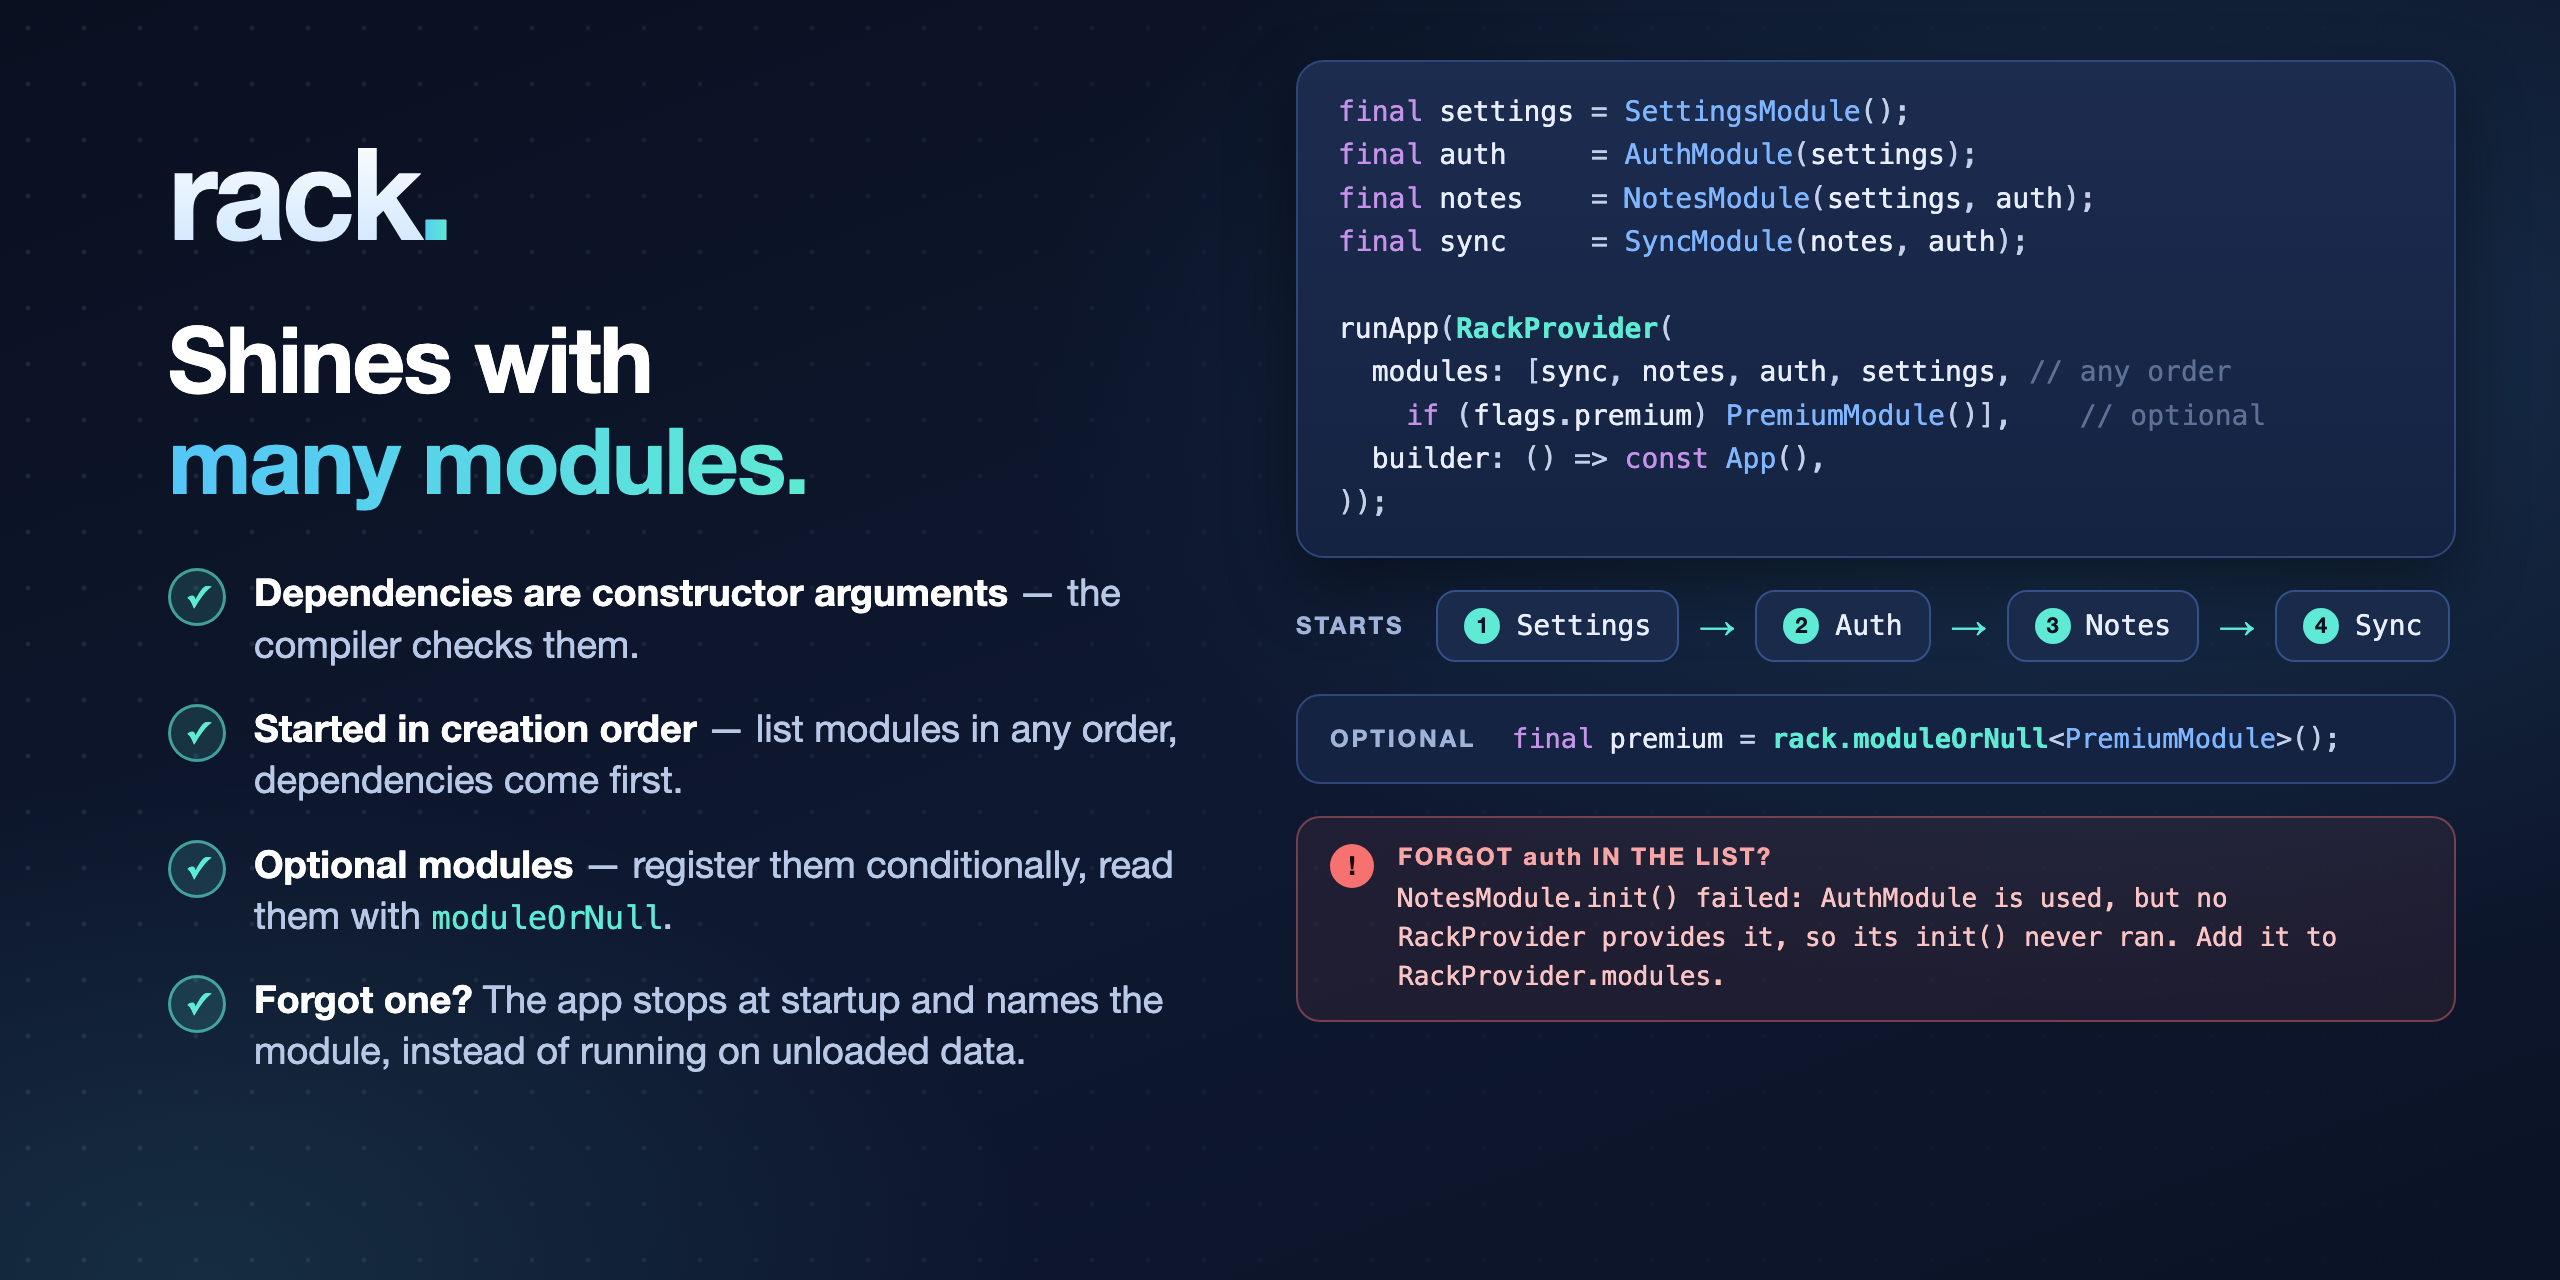
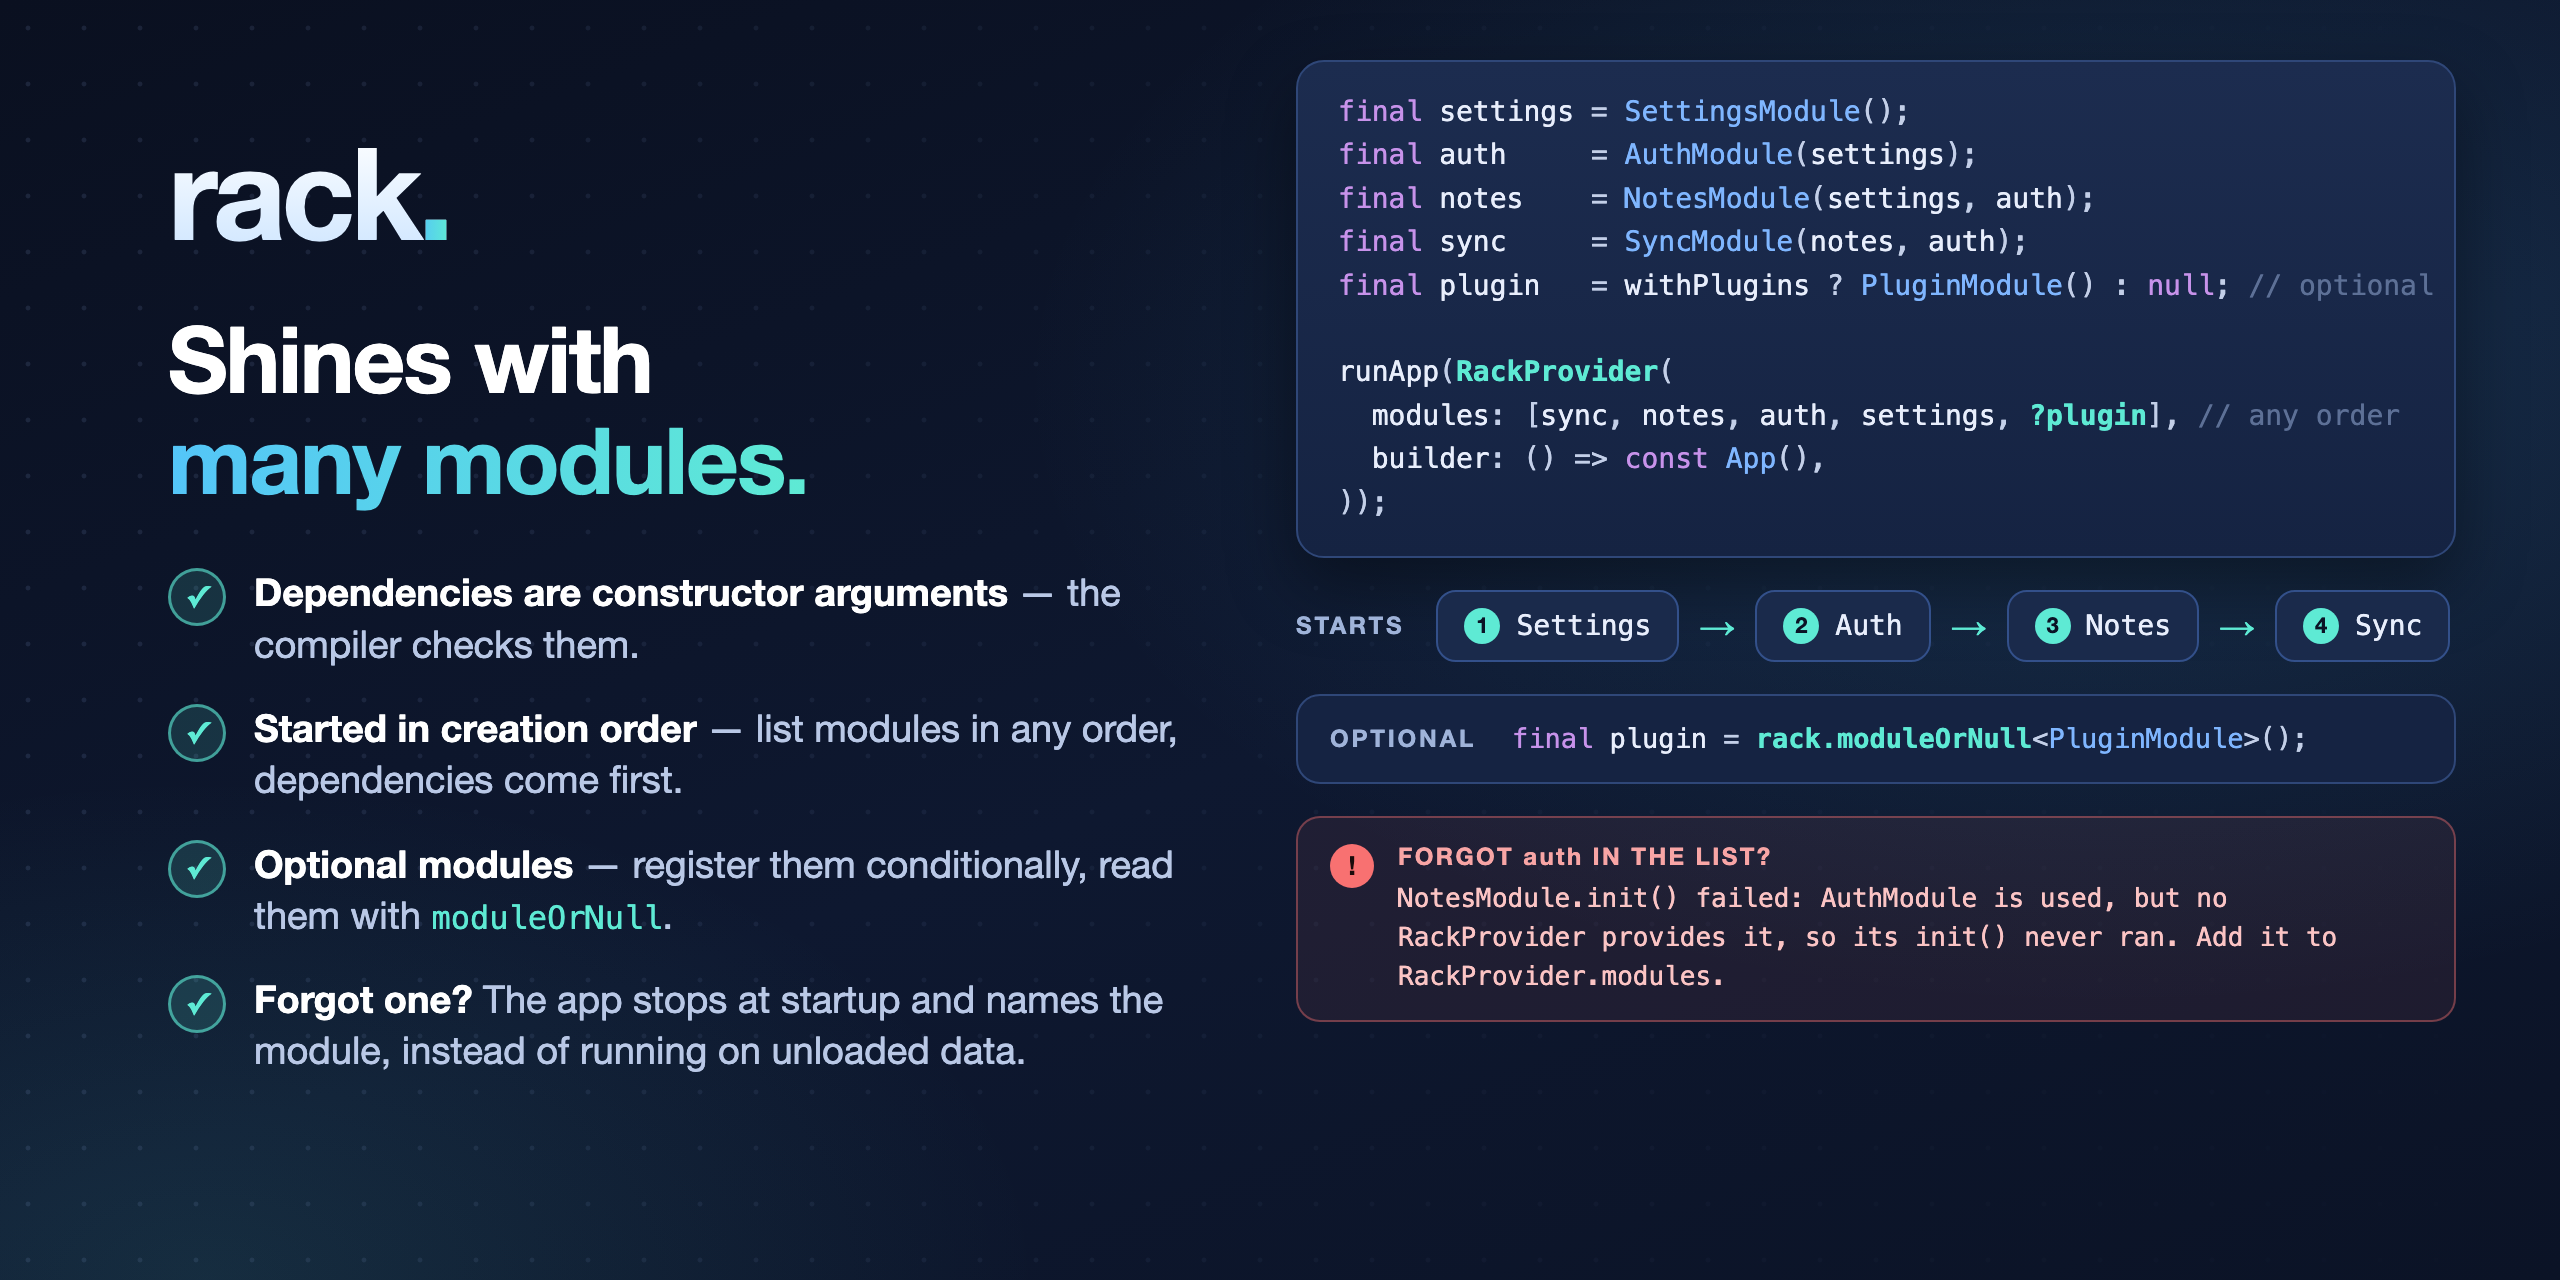
docs: graphics use notesStore and an optional PluginModule

diff --git a/doc/images/rack-banner.html b/doc/images/rack-banner.html
@@ -50,7 +50,7 @@
   <div class="card">
     <div class="head"><span class="num">1</span><span class="label">MODULE</span><span class="hint">holds your stores, registered once at the root</span></div>
 <pre><span class="k">class</span> <span class="t">AppModule</span> <span class="k">extends</span> <span class="r">RackModule</span> {
-  <span class="k">late final</span> <span class="s">notes</span> = <span class="r">use</span>(<span class="t">NotesStore</span>());
+  <span class="k">late final</span> <span class="s">notesStore</span> = <span class="r">use</span>(<span class="t">NotesStore</span>());
 }
 
 <span class="k">void</span> <span class="s">main</span>() =&gt; <span class="s">runApp</span>(<span class="r">RackProvider</span>(
@@ -62,8 +62,8 @@
   <div class="card">
     <div class="head"><span class="num">2</span><span class="label">CONTROLLER</span><span class="hint">plain Dart, one per screen</span></div>
 <pre><span class="k">class</span> <span class="t">NotesController</span> {
-  <span class="t">NotesController</span>(<span class="k">this</span>.<span class="s">notes</span>);
-  <span class="k">final</span> <span class="t">NotesStore</span> <span class="s">notes</span>;
+  <span class="t">NotesController</span>(<span class="k">this</span>.<span class="s">notesStore</span>);
+  <span class="k">final</span> <span class="t">NotesStore</span> <span class="s">notesStore</span>;
 }</pre>
   </div>
   <div class="link"></div>
@@ -71,7 +71,7 @@
     <div class="head"><span class="num">3</span><span class="label">SCREEN</span><span class="hint">creates and disposes its controller</span></div>
 <pre><span class="k">class</span> <span class="t">NotesScreen</span> <span class="k">extends</span> <span class="r">RackWidget</span>&lt;<span class="t">NotesController</span>&gt; {
   <span class="t">NotesController</span> <span class="s">create</span>(<span class="t">Rack</span> rack) =&gt;
-      <span class="t">NotesController</span>(<span class="r">rack.module</span>&lt;<span class="t">AppModule</span>&gt;().<span class="s">notes</span>);
+      <span class="t">NotesController</span>(<span class="r">rack.module</span>&lt;<span class="t">AppModule</span>&gt;().<span class="s">notesStore</span>);
   <span class="t">Widget</span> <span class="s">buildContent</span>(context, controller) =&gt; <span class="c">…</span>;
 }</pre>
   </div>

diff --git a/doc/images/rack-modules.html b/doc/images/rack-modules.html
@@ -63,10 +63,10 @@
 <span class="k">final</span> <span class="s">auth</span>     = <span class="t">AuthModule</span>(<span class="s">settings</span>);
 <span class="k">final</span> <span class="s">notes</span>    = <span class="t">NotesModule</span>(<span class="s">settings</span>, <span class="s">auth</span>);
 <span class="k">final</span> <span class="s">sync</span>     = <span class="t">SyncModule</span>(<span class="s">notes</span>, <span class="s">auth</span>);
+<span class="k">final</span> <span class="s">plugin</span>   = <span class="s">withPlugins</span> ? <span class="t">PluginModule</span>() : <span class="k">null</span>; <span class="c">// optional</span>
 
 <span class="s">runApp</span>(<span class="r">RackProvider</span>(
-  <span class="s">modules</span>: [<span class="s">sync</span>, <span class="s">notes</span>, <span class="s">auth</span>, <span class="s">settings</span>, <span class="c">// any order</span>
-    <span class="k">if</span> (<span class="s">flags</span>.<span class="s">premium</span>) <span class="t">PremiumModule</span>()],    <span class="c">// optional</span>
+  <span class="s">modules</span>: [<span class="s">sync</span>, <span class="s">notes</span>, <span class="s">auth</span>, <span class="s">settings</span>, <span class="r">?plugin</span>], <span class="c">// any order</span>
   <span class="s">builder</span>: () =&gt; <span class="k">const</span> <span class="t">App</span>(),
 ));</pre>
   </div>
@@ -79,7 +79,7 @@
   </div>
   <div class="opt">
     <span class="olabel">OPTIONAL</span>
-<pre><span class="k">final</span> <span class="s">premium</span> = <span class="r">rack.moduleOrNull</span>&lt;<span class="t">PremiumModule</span>&gt;();</pre>
+<pre><span class="k">final</span> <span class="s">plugin</span> = <span class="r">rack.moduleOrNull</span>&lt;<span class="t">PluginModule</span>&gt;();</pre>
   </div>
   <div class="err">
     <span class="x">!</span>
